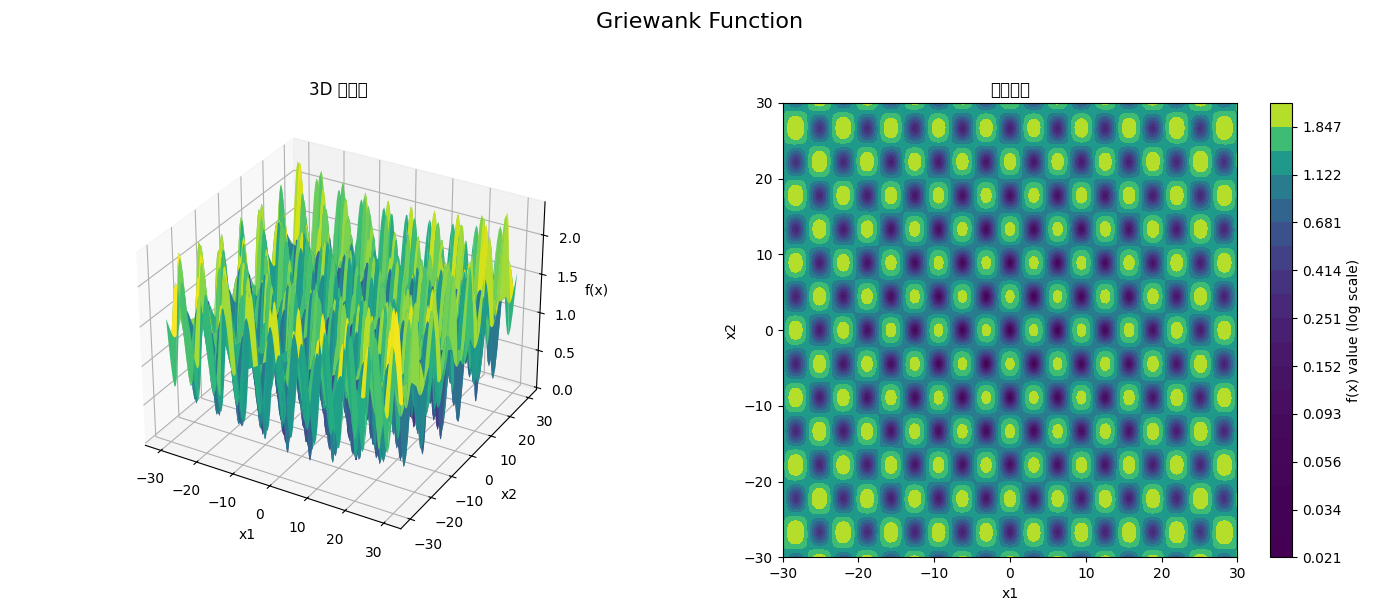
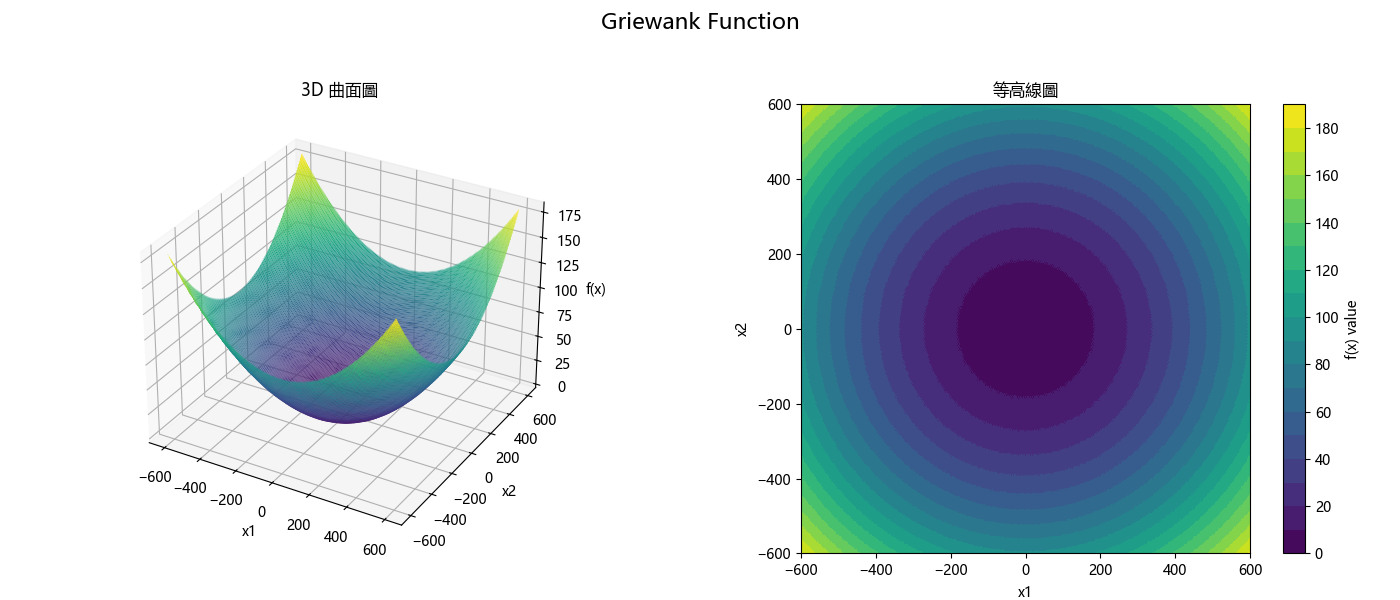
visualize.py優化

diff --git a/src/visualize.py b/src/visualize.py
@@ -3,25 +3,25 @@ import matplotlib.pyplot as plt
 import os
 from functions import rosenbrock, rastrigin, griewank
 
-def plot_function_3d(func, x_range, y_range, title, num_points=1000):
+def plot_function_3d(func, x_range, y_range, title, num_points, output_dir):
     """
-        func (callable): 要繪製的函數，它必須能接受一個二維 numpy 陣列。
-        x_range (tuple): x 軸的範圍 (最小值, 最大值)。
-        y_range (tuple): y 軸的範圍 (最小值, 最大值)。
-        title (str): 圖表的標題。
-        num_points (int): 每個軸上的取樣點數量。。
+        各參數的解釋&資料型態:
+        func (callable): 要繪製的函數，它必須能接受一個二維 numpy 陣列
+        x_range (tuple): x 軸的範圍 (最小值, 最大值)
+        y_range (tuple): y 軸的範圍 (最小值, 最大值)
+        title (str): 圖表的標題
+        num_points (int): 每個軸上的取樣點數量
+        output_dir (str): 圖表儲存的目錄
     """
     print(f"正在生成 {title} 的圖表...")
-
-    #將結果儲存到 results/plots 資料夾
-    output_dir = 'results/plots'
     
     #生成x與y軸的取樣點
-    x1= np.linspace(x_range[0], x_range[1], num_points)
+    x1 = np.linspace(x_range[0], x_range[1], num_points)
     x2 = np.linspace(y_range[0], y_range[1], num_points)
+    x1, x2 = np.meshgrid(x1, x2)
 
     #計算yk的值
-    yk = [0 for i in range(len(x2))]
+    yk = np.zeros_like(x1)
     for i in range(num_points):
         for j in range(num_points):
             yk[i, j] = func(np.array([x1[i, j], x2[i, j]]))
@@ -29,6 +29,9 @@ def plot_function_3d(func, x_range, y_range, title, num_points=1000):
     #使用plt繪製3D立體圖和等高線圖
     fig = plt.figure(figsize=(14, 6))
     fig.suptitle(title, fontsize=16)
+
+    #因plt預設字型不支援中文，故設定字型為YaHei以正確顯示中文標籤
+    plt.rcParams['font.sans-serif'] = ['Microsoft YaHei']
 
     #3D立體圖
     ax1 = fig.add_subplot(1, 2, 1, projection='3d')
@@ -40,16 +43,8 @@ def plot_function_3d(func, x_range, y_range, title, num_points=1000):
 
     #等高線圖
     ax2 = fig.add_subplot(1, 2, 2)
-    # 對於數值範圍大的函數，使用對數尺度能更好地顯示細節
-    try:
-        min_val = max(Z.min(), 1e-6) # 避免 log(0)
-        levels = np.logspace(np.log10(min_val), np.log10(Z.max()), 20)
-        contour = ax2.contourf(X, Y, Z, levels=levels, cmap='viridis')
-        fig.colorbar(contour, ax=ax2, label='f(x) value (log scale)')
-    except ValueError:
-        # 如果 Z 值包含負數或零，則退回線性尺度
-        contour = ax2.contourf(X, Y, Z, 20, cmap='viridis')
-        fig.colorbar(contour, ax=ax2, label='f(x) value')
+    contour = ax2.contourf(x1, x2, yk, 20, cmap='viridis')
+    fig.colorbar(contour, ax=ax2, label='f(x) value')
 
     ax2.set_xlabel('x1')
     ax2.set_ylabel('x2')
@@ -58,51 +53,41 @@ def plot_function_3d(func, x_range, y_range, title, num_points=1000):
 
     # 保存圖形
     plt.tight_layout(rect=[0, 0.03, 1, 0.95])
-    save_path = os.path.join(output_dir, f"{title.lower().replace(' ', '_')}.png")
+    save_path = os.path.join(output_dir, f"{title.replace(' ', '_')}.png")
     plt.savefig(save_path)
     plt.close(fig)
     print(f"圖表已儲存至 {save_path}")
 
 
 if __name__ == "__main__":
-    # 定義要繪製的函數及其屬性
-    functions_to_plot = [
+    functions_to_plot = [ #每個函數的範圍按照題目要求設定
         {
             "func": rosenbrock,
-            "range": (-5, 10),
-            "title": "Rosenbrock Function"
-        },
+            "range": (-5, 10), 
+            "title": "Rosenbrock Function"},
         {
             "func": rastrigin,
             "range": (-5.12, 5.12),
-            "title": "Rastrigin Function"
-        },
+            "title": "Rastrigin Function"},
         {
             "func": griewank,
             "range": (-600, 600),
-            "title": "Griewank Function"
-        }
+            "title": "Griewank Function"}
     ]
     
-    # 如果儲存結果的資料夾不存在，則創建它
-    output_dir = 'results/plots'
+    output_dir = 'results\\plots'
     os.makedirs(output_dir, exist_ok=True)
 
     # 為每個函數生成圖表
     for item in functions_to_plot:
-        plot_range = item["range"]
-        # Griewank 函數的有趣特徵集中在原點附近。
-        # 繪製完整的 [-600, 600] 範圍會使圖形看起來很平坦。
-        # 我們將使用較小的範圍以獲得資訊更豐富的視覺化效果。
-        if item["func"].__name__ == "griewank":
-            plot_range = (-30, 30)
-            print("注意：為 Griewank 函數使用較小的繪圖範圍以顯示原點附近的細節。")
 
         plot_function_3d(
             func=item["func"],
-            x_range=plot_range,
-            y_range=plot_range,
-            title=item["title"]
+            x_range=item["range"],
+            y_range=item["range"],
+            title=item["title"],
+            num_points=1000,
+            output_dir=output_dir
         )
 
-    print("\n所有視覺化圖表都已生成在 'results/plots/' 資料夾中。\n")
+    print("所有函數圖表都已生成在 'results\\plots\\' 資料夾中。\n")

diff --git a/src/iro.py b/src/iro.py
@@ -1,0 +1,63 @@
+import numpy as np
+
+def improved_random_optimization(objective_func, bounds, dim, max_iter):
+    """
+    實作改良式隨機優化 (Improved RO) 演算法。
+
+    Args:
+        objective_func (callable): 要最小化的目標函數。
+        bounds (tuple): 搜尋空間的邊界 (min_bound, max_bound)。
+        dim (int): 搜尋空間的維度。
+        max_iter (int): 總迭代次數。
+
+    Returns:
+        tuple: 一個包含 (最佳解, 最佳適應度, 適應度歷史紀錄) 的元組。
+    """
+    # 步驟 1: 初始化位置 x 和偏置項 b
+    min_bound, max_bound = bounds
+    x = np.random.uniform(min_bound, max_bound, dim)
+    b = np.zeros(dim)
+    current_fitness = objective_func(x)
+    
+    best_solution = x
+    best_fitness = current_fitness
+    
+    fitness_history = [best_fitness]
+
+    for _ in range(max_iter):
+        # 步驟 2: 取得隨機向量 dx 並評估前進方向
+        sigma = (max_bound - min_bound) * 0.1
+        dx = np.random.normal(0, sigma, dim)
+        
+        x_forward = x + b + dx
+        x_forward = np.clip(x_forward, min_bound, max_bound)
+        fitness_forward = objective_func(x_forward)
+
+        # 步驟 3: 檢查前進方向
+        if fitness_forward < current_fitness:
+            x = x_forward
+            current_fitness = fitness_forward
+            b = 0.2 * b + 0.4 * dx
+        else:
+            # 步驟 4: 檢查後退方向
+            x_backward = x + b - dx
+            x_backward = np.clip(x_backward, min_bound, max_bound)
+            fitness_backward = objective_func(x_backward)
+            
+            if fitness_backward < current_fitness:
+                x = x_backward
+                current_fitness = fitness_backward
+                b = b - 0.4 * dx
+            else:
+                # 步驟 5: 若無改進，則衰減偏置項
+                b = 0.5 * b
+        
+        # 更新全域最佳解
+        if current_fitness < best_fitness:
+            best_solution = x
+            best_fitness = current_fitness
+            
+        # 步驟 6: 檢查停止條件 (由 for 迴圈處理)，並記錄歷史
+        fitness_history.append(best_fitness)
+
+    return best_solution, best_fitness, fitness_history
